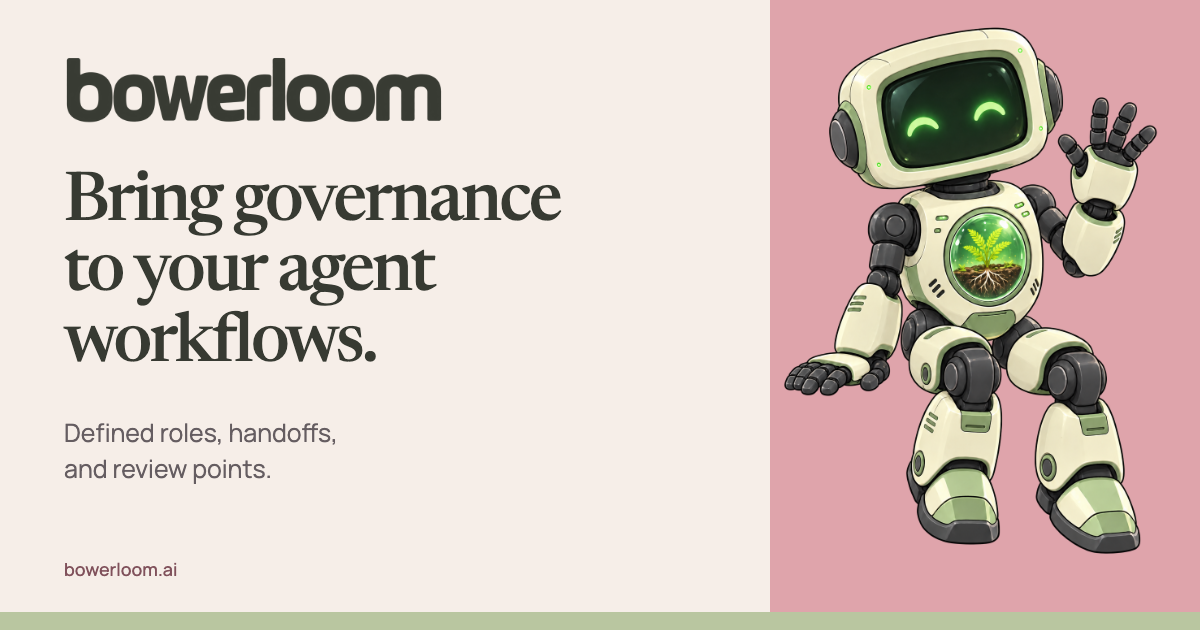
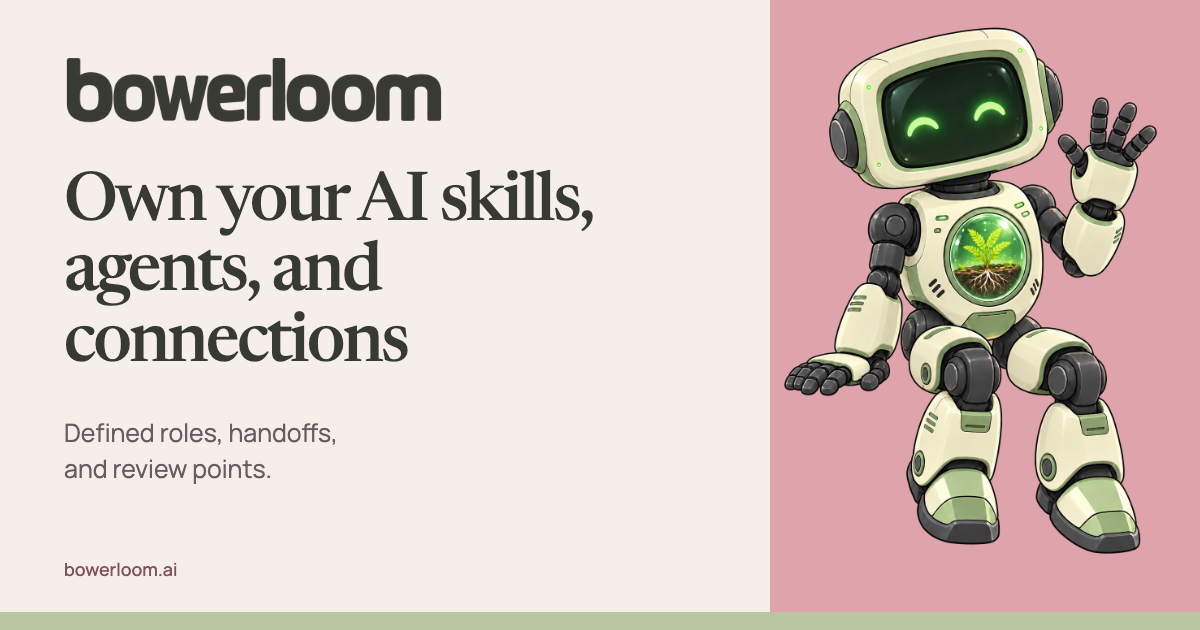
feat(site): update the Bowerloom headline

Changed region(s): [[0.0308, 0.2714, 0.4933, 0.573]]

diff --git a/apps/landing/src/content.ts b/apps/landing/src/content.ts
@@ -11,7 +11,7 @@ export const destinations = {
 };
 export const hero = {
   "Eyebrow": "Governance for agent workflows",
-  "H1": "Bring governance to your agent workflows.",
+  "H1": "Own your AI skills, agents, and connections",
   "Body": "Turn the work you already do into defined roles, handoffs, and review points. Bowerloom binds setup files to an exact approved plan and records their installed state, while your team definitions stay in files that follow you. Start with an existing project and your personal agent, then review the team specification before approving its installation.",
   "Primary CTA": "Build with your agent",
   "Secondary link": "Explore the Labs workflow",

diff --git a/apps/landing/design/social-preview.html b/apps/landing/design/social-preview.html
@@ -22,7 +22,7 @@
   <main class="preview">
     <div class="rose" aria-hidden="true"></div>
     <img class="wordmark" src="/brand/rose-conservatory/bowerloom-wordmark-plain-ink.svg" alt="Bowerloom" width="2044" height="374">
-    <h1>Bring governance<br>to your agent<br>workflows.</h1>
+    <h1>Own your AI skills,<br>agents, and<br>connections</h1>
     <p class="description">Defined roles, handoffs,<br>and review points.</p>
     <p class="address">bowerloom.ai</p>
     <img class="character" src="/panel-units/s4-g3-footer-wave.png" alt="S4-G3 waves, with a plant growing inside its chest chamber." width="1024" height="1536">
